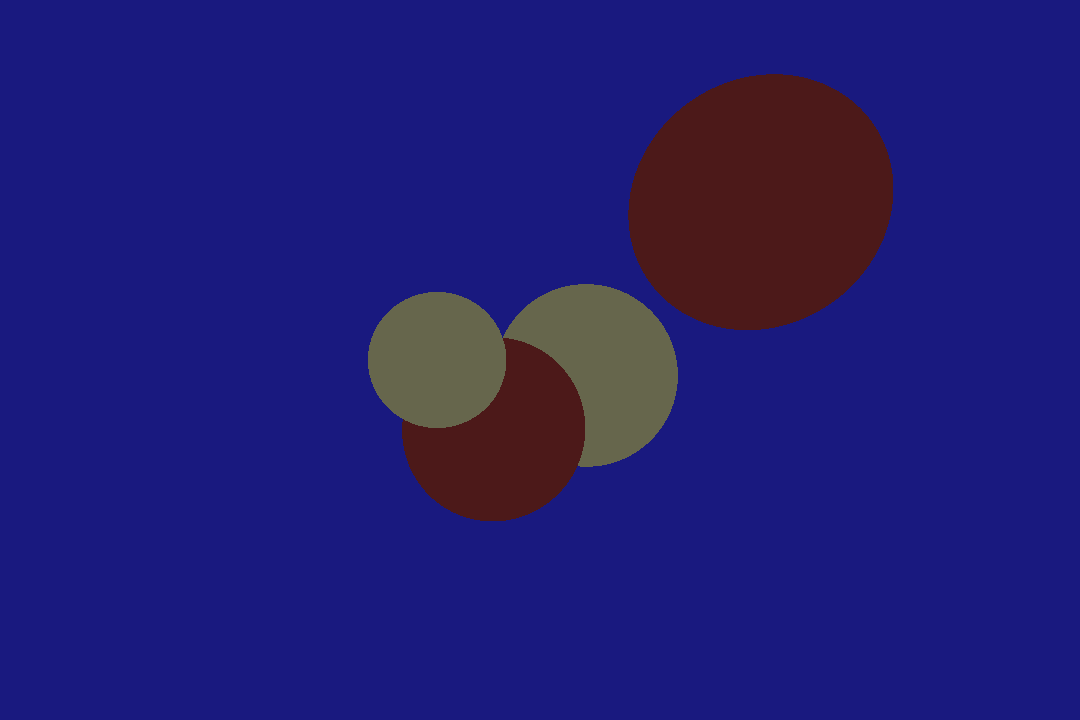
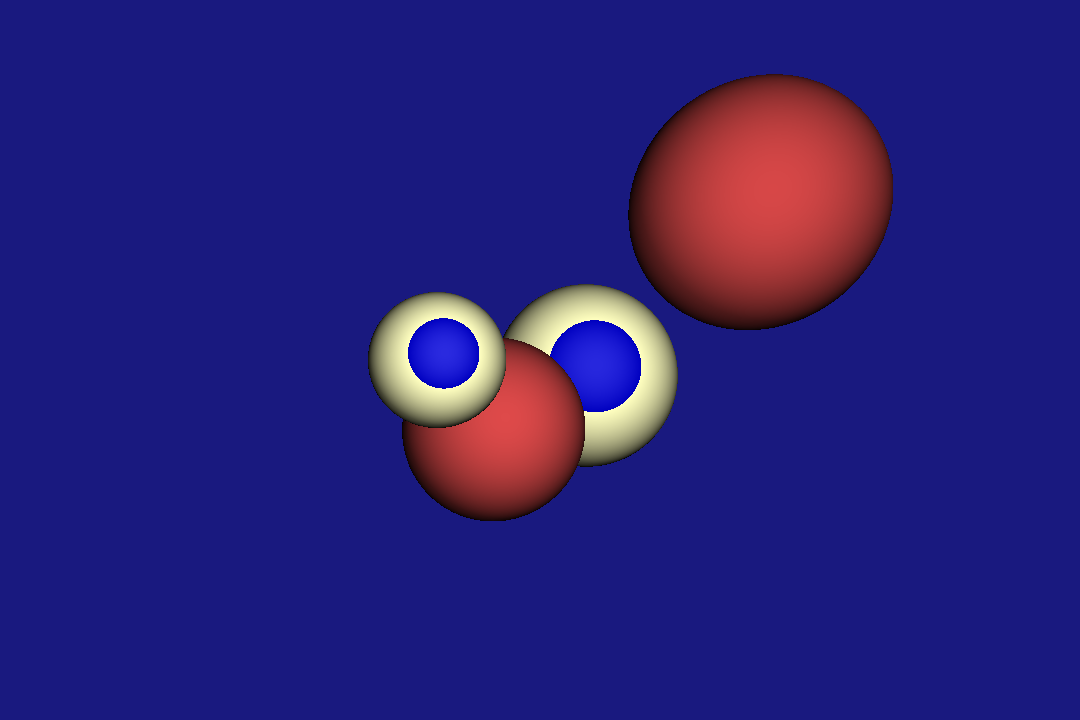
加入光源，计算每点光照

Changed region(s): [[0.3361, 0.0917, 0.825, 0.7333]]

diff --git a/raytracer.cpp b/raytracer.cpp
@@ -4,8 +4,9 @@
 #include <cmath>
 #include <limits>
 #include "geometry.h"
-#include "Material.h"
-#include "Sphere.h"
+#include "material.h"
+#include "sphere.h"
+#include "light.h"
 #define STB_IMAGE_WRITE_IMPLEMENTATION
 #include "stb_image_write.h"
 #define STB_IMAGE_IMPLEMENTATION
@@ -15,19 +16,31 @@ using namespace std;
 Material ivory(Vec3f(0.4, 0.4, 0.3));
 Material red_rubber(Vec3f(0.3, 0.1, 0.1));
 Material bg(Vec3f(0.1,0.1,0.5));
-vector<Sphere> spheres;
 
-Vec3f trace(const Vec3f& orig,const Vec3f& dir)
+Vec3f trace(const Vec3f& orig,const Vec3f& dir,const vector<Sphere>& spheres,
+	const vector<PointLight>& pointLights)
 {
+	Vec3f hit;
+	Vec3f n;
+	float intensitys=0;
+	Material mat(Vec3f(1,0,0));
 	for(auto& sphere:spheres)
 	{	
-		if(sphere.isRayIntersect(orig,dir))
-			return sphere.mat.color;
+		if(sphere.isRayIntersect(orig,dir,hit,n,mat))
+		{
+			for(auto& pointLight:pointLights)
+			{
+				Vec3f l=(pointLight.center-hit).normalize();
+				intensitys+=pointLight.intensity*max(0.f,l*n);
+			}
+			Vec3f color=mat.color*intensitys;//rgb值超过255怎么解决？
+			return color;
+		}
 	}
 	return bg.color;
 }
 
-void render()
+void render(const vector<Sphere>& spheres,const vector<PointLight>& pointLights)
 {
 	const int w = 1080;
 	const int h = 720;
@@ -51,7 +64,7 @@ void render()
 			Dir=Vec3f(x,y,z);
 			Dir.normalize();
 			
-			Vec3f color=trace(Camera,Dir);
+			Vec3f color=trace(Camera,Dir,spheres,pointLights);
 			
 			data[n*(j*w+i)+0]=color.x;
 			data[n*(j*w+i)+1]=color.y;
@@ -65,10 +78,14 @@ void render()
 int main()
 {
 	cout<<"ray tracer program"<<endl;
+	vector<Sphere> spheres;
+	vector<PointLight> pointLights;
 	spheres.emplace_back(Sphere(Vec3f(-3,0,-16),2,ivory));
 	spheres.emplace_back(Sphere(Vec3f(-1,-1.5,-12),2,red_rubber));
 	spheres.emplace_back(Sphere(Vec3f(1.5,-0.5,-18),3,ivory));
 	spheres.emplace_back(Sphere(Vec3f(7,5,-18),4,red_rubber));
-	render();
+	pointLights.emplace_back(PointLight(Vec3f(10,10,10),1));
+	pointLights.emplace_back(PointLight(Vec3f(0,0,0),1));
+	render(spheres,pointLights);
 	return 0;
 }	

diff --git a/Sphere.h b/Sphere.h
@@ -1,26 +1,32 @@
 #pragma once
 #include "geometry.h"
-#include "Material.h"
+#include "material.h"
 #include <cmath>
 struct Sphere{
 	Vec3f center;
 	float radius;
 	Material mat;
 	Sphere(const Vec3f& c, const float& r,const Material& m):center(c),radius(r),mat(m){}
-	bool isRayIntersect(const Vec3f& orig,const Vec3f& dir)
+	bool isRayIntersect(const Vec3f& orig,const Vec3f& dir, Vec3f& hit,Vec3f& norm,
+			Material& m) const
 	{
 		Vec3f l=center-orig;
 		float proj=l*dir;
 		float s=l*l-proj*proj;
 		float d=sqrt(s);
+		float t0;
 		if(d>radius) return false;
 		else
 		{
 			float t=sqrt(radius*radius-s);
-			float t0=proj-t;
+			t0=proj-t;
 			if(t0<0) t0=proj+t;
 			if(t0<0) return false;
 		}
+		hit=dir*t0+orig;
+		norm=hit-center;
+		norm.normalize();
+		m=mat;
 		return true;
 	}
 };

diff --git a/light.h b/light.h
@@ -1,0 +1,14 @@
+#pragma once 
+#include "geometry.h"
+struct DirectionalLight
+{
+	Vec3f dir;
+	float intensity;
+};
+
+struct PointLight
+{
+	Vec3f center;
+	float intensity;
+	PointLight(const Vec3f& c,float i):center(c),intensity(i){}
+};
